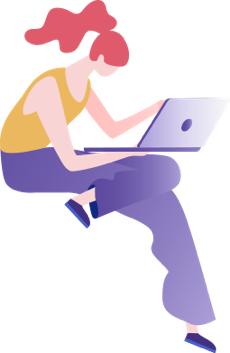
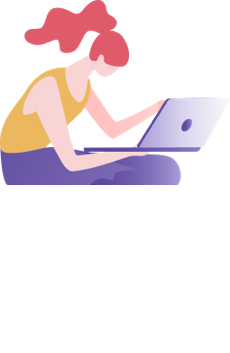
add services section

Changed region(s): [[0.0304, 0.4986, 0.9435, 1.0]]

diff --git a/src/components/ServicesSection.vue b/src/components/ServicesSection.vue
@@ -1,0 +1,197 @@
+<template>
+  <section id="services">
+    <div class="container">
+      <div class="row row-cols-2">
+        <!-- right column -->
+        <div class="right-column col">
+          <div class="right-row row">
+            <div class="col-6">
+              <div class="section-card">
+                <div class="card-text">
+                  <h2>Graphic Design</h2>
+                  <div>
+                    Have a passion for graphics and arts? Show your talents with
+                    confidence and self-assertiveness.
+                  </div>
+                </div>
+                <div class="img-wrapper text-center">
+                  <img
+                    src="@/assets/images/home-6-service-image-01.png"
+                    alt=""
+                  />
+                </div>
+              </div>
+            </div>
+            <div class="col-6" style="margin-top: 5rem">
+              <div class="section-card">
+                <div class="card-text">
+                  <h2>Business Administration</h2>
+                  <div>
+                    Learners are encouraged to study the mechanism and structure
+                    of business administration.
+                  </div>
+                </div>
+                <div class="img-wrapper text-center">
+                  <img
+                    src="@/assets/images/home-6-service-image-02.png"
+                    alt=""
+                  />
+                </div>
+              </div>
+            </div>
+            <div class="col-6" style="margin-top: -5rem">
+              <div class="section-card">
+                <div class="img-wrapper">
+                  <img
+                    src="@/assets/images/home-6-service-image-03.png"
+                    alt=""
+                  />
+                </div>
+                <div class="card-text">
+                  <h2>Idea Discussion</h2>
+                  <div>
+                    Get teamed up with the specialists who work and teach coding
+                    for years at famous universities.
+                  </div>
+                </div>
+              </div>
+            </div>
+            <div class="col-6">
+              <div class="section-card">
+                <div class="img-wrapper text-center">
+                  <img
+                    src="@/assets/images/home-6-service-image-04.png"
+                    alt=""
+                  />
+                </div>
+                <div class="card-text">
+                  <h2>Web Development</h2>
+                  <div>
+                    Learn to start building web pages from scratch. You decide
+                    your own pace, course and speed.
+                  </div>
+                </div>
+              </div>
+            </div>
+          </div>
+        </div>
+        <!-- /right column -->
+        <!-- left column -->
+        <div class="left-column col">
+          <div class="small-text text-uppercase">together we can create</div>
+          <h2 class="headline">
+            Services We <span class="highlight">Can Provide</span> For My
+            Clients.
+          </h2>
+          <div class="services">
+            <div class="item">
+              <font-awesome-icon icon="fa-solid fa-check" />
+              <span>Select & customize courses to your preferences</span>
+            </div>
+            <div class="item">
+              <font-awesome-icon icon="fa-solid fa-check" />
+              <span>Change the tutor and make arrangements</span>
+            </div>
+            <div class="item">
+              <font-awesome-icon icon="fa-solid fa-check" />
+              <span>Participate in events to join others</span>
+            </div>
+            <div class="item">
+              <font-awesome-icon icon="fa-solid fa-check" />
+              <span>Get the desired certificate delivered at house</span>
+            </div>
+          </div>
+          <button>Get started for free</button>
+        </div>
+      </div>
+    </div>
+  </section>
+</template>
+
+<script>
+export default {
+  name: "ServicesSection",
+};
+</script>
+
+<style lang="scss" scoped>
+@import "@/assets/style.scss";
+
+#services {
+  padding-top: 10rem;
+  background-image: url("@/assets/images/background-pattern-grid-line.png");
+  background-position: center;
+  .right-row {
+    row-gap: 2rem;
+    .section-card {
+      height: 400px;
+      box-shadow: 0px 0px 18px -8px grey;
+      border-radius: 0.5rem;
+      background-color: white;
+
+      img {
+        max-width: 300px;
+        height: 184px;
+      }
+
+      .card-text {
+        padding: 2rem;
+        h2 {
+          font-size: 20px;
+          color: $coursesSectTextColor;
+        }
+        div {
+          color: #7e7e7e;
+          font-weight: 300;
+        }
+      }
+    }
+  }
+
+  .left-column {
+    padding: 5rem;
+    margin-top: 10rem;
+
+    .small-text {
+      font-size: 15px;
+      letter-spacing: 2px;
+      color: #696969;
+      margin-bottom: 2rem;
+    }
+    h2.headline {
+      font-size: 48px;
+      line-height: 1.17em;
+      color: #333333;
+
+      .highlight {
+        color: $highlightedTextColor;
+        font-weight: 300;
+      }
+    }
+    .services {
+      margin-top: 2rem;
+      .item {
+        margin-top: 1rem;
+        svg {
+          color: $highlightedTextColor;
+          margin-right: 1rem;
+        }
+
+        span {
+          font-size: 15px;
+          font-weight: 300;
+        }
+      }
+    }
+
+    button {
+      @include button;
+      margin-top: 2rem;
+
+      &:hover {
+          background-color: $coursesSectTextColor;
+      }
+    }
+  }
+}
+</style>

diff --git a/src/components/SiteJumbo.vue b/src/components/SiteJumbo.vue
@@ -100,6 +100,7 @@ export default {
       border-radius: 1.25rem;
       z-index: 1;
       box-shadow: 0px -2px 25px -6px grey;
+      max-width: 720px;
     }
 
     img.yt-logo {
@@ -107,6 +108,7 @@ export default {
       top: 50%;
       right: 50%;
       transform: translate(50%, -50%);
+      max-width: 95px;
     }
   }
 
@@ -114,9 +116,9 @@ export default {
     position: relative;
 
     img {
-      width: 370px;
+      max-width: 370px;
       position: absolute;
-      left: 5%;
+      left: 12%;
     }
   }
 
@@ -125,7 +127,8 @@ export default {
 
     img {
       position: absolute;
-      bottom: -35%;
+      bottom: -44%;
+      right: 36%;
     }
   }
 }

diff --git a/src/main.js b/src/main.js
@@ -8,6 +8,7 @@ import {
   faRuler,
   faLifeRing,
   faBook,
+  faCheck,
 } from "@fortawesome/free-solid-svg-icons";
 import { faCircleUser } from "@fortawesome/free-regular-svg-icons";
 import { FontAwesomeIcon } from "@fortawesome/vue-fontawesome";
@@ -18,7 +19,8 @@ library.add(
   faMagnifyingGlass,
   faRuler,
   faLifeRing,
-  faBook
+  faBook,
+  faCheck
 );
 Vue.component("font-awesome-icon", FontAwesomeIcon);
 Vue.config.productionTip = false;

diff --git a/src/components/SiteMain.vue b/src/components/SiteMain.vue
@@ -1,18 +1,21 @@
 <template>
   <main id="site_main">
     <CourseSection />
+    <ServicesSection />
   </main>
 </template>
 
 <script>
 import CourseSection from "@/components/CourseSection.vue";
+import ServicesSection from "@/components/ServicesSection.vue";
 
 export default {
   name: "SiteMain",
   components: {
     CourseSection,
+    ServicesSection,
   },
 };
 </script>
 
-<style></style>
+<style lang="scss" scoped></style>
